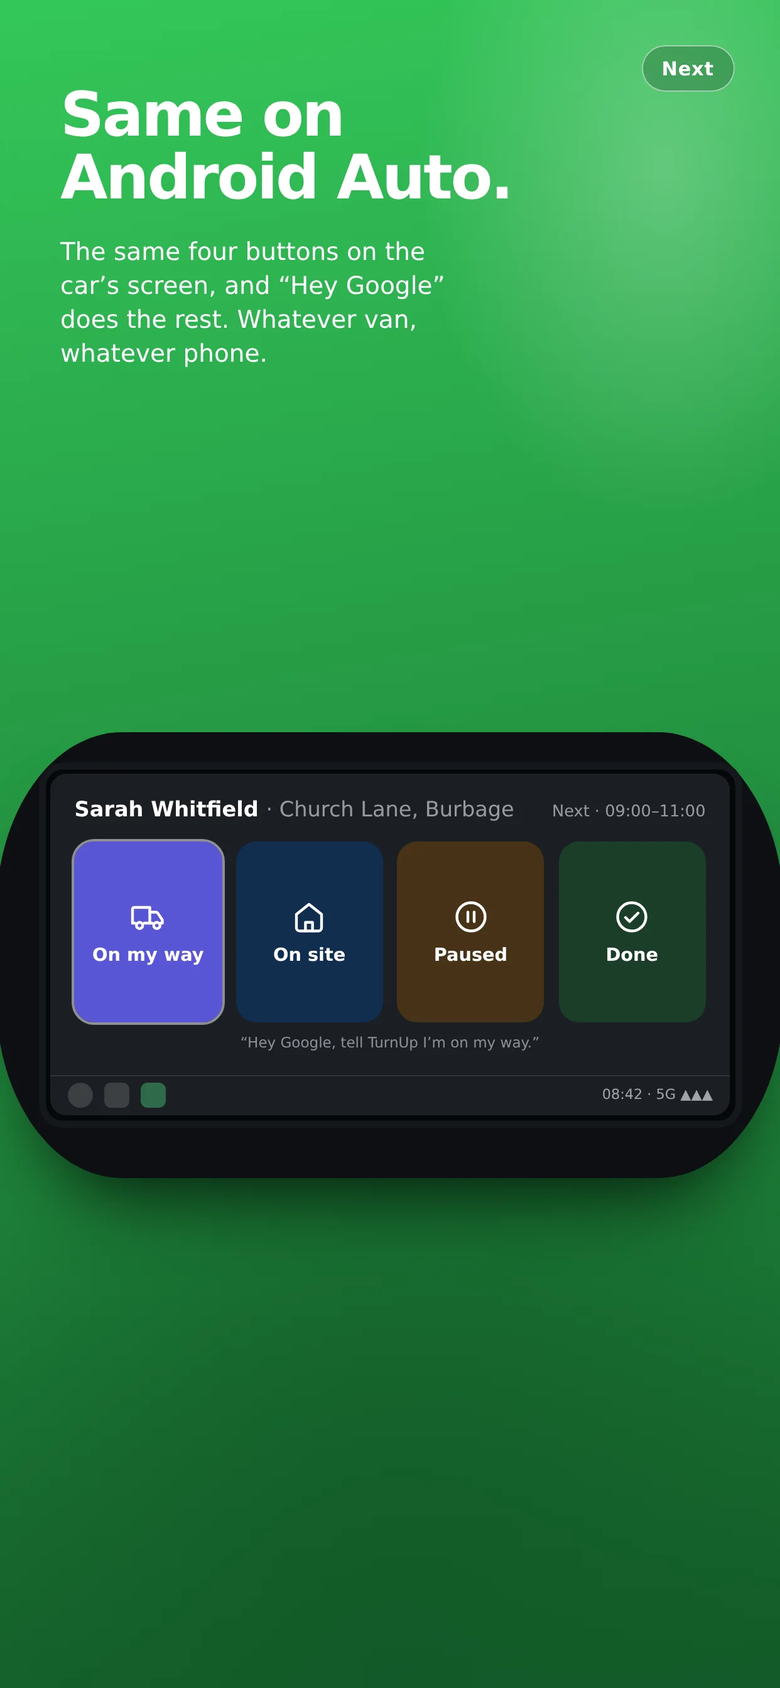
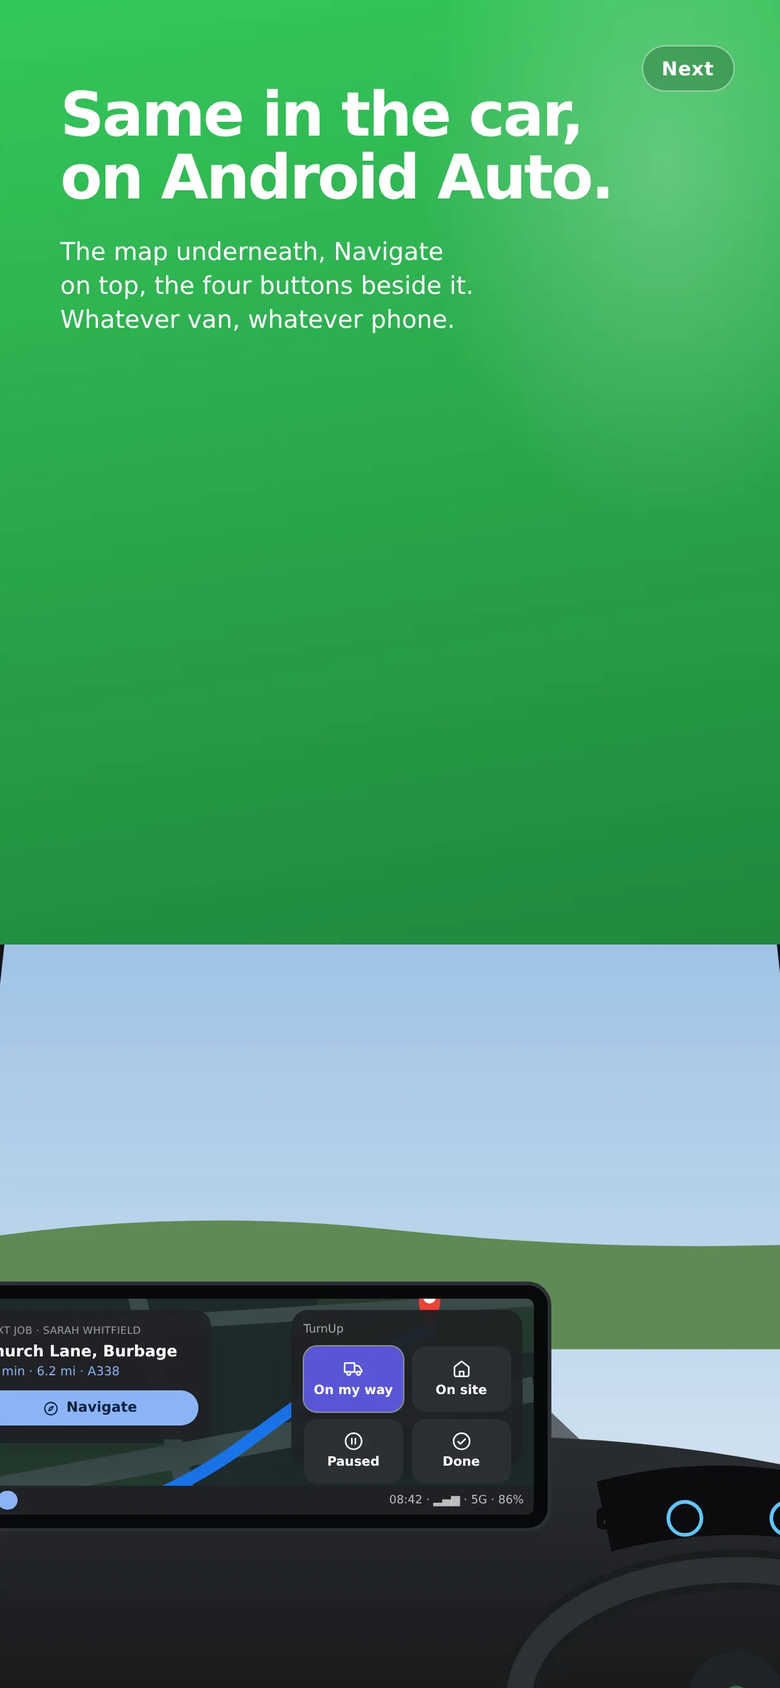
v1.15.2: the cab from the driver's seat; the mark goes home; ServiceM8 is one setting
Will: the CarPlay frames did not look like CarPlay, needed "navigate to
the address", and should show a van dash and a car dash. CarDisplay now
draws the cab — right-hand drive, wheel on the right, the road through the
glass, vents, binnacle — with the head unit as crisp HTML over the SVG.
The van is upright with a tall dash; the car slopes. CarPlay has its
status column, a map card with Navigate, and the stage list; Android Auto
has the map underneath, the navigation card, the TurnUp card and the bar.

The TurnUp mark on the dashboard is a link to the homepage.

ServiceM8 setup is one env var: the webhook secret is derived from
JWT_SECRET when SM8_WEBHOOK_TOKEN is unset, and `npm run build` runs
`prisma db push` so new tables are created by the deploy itself. The panel
gives the Vercel steps with links; the script is a convenience, not a
requirement. CLAUDE.md records what the build now does to the schema and
what it still cannot.

Claude-Session: https://claude.ai/code/session_01KF9r2LXPvcJ1ugbhNoFDpJ

diff --git a/src/components/CarDisplay.jsx b/src/components/CarDisplay.jsx
@@ -1,63 +1,168 @@
-import { VanIcon, HouseIcon, PauseIcon, CheckIcon } from '@/components/icons'
+import { VanIcon, HouseIcon, PauseIcon, CheckIcon, PhoneIcon, CompassIcon } from '@/components/icons'
 
 /**
- * A car's screen, not a phone's. Landscape head unit in a dark dash, drawn
- * two ways: CarPlay (sidebar on the left: time, signal, home) and Android
- * Auto (bar along the bottom). Both show the same four things a driver may
- * press: On my way, On site, Paused, Done — and nothing that needs reading.
+ * A head unit in a dash, seen from the driver's seat (right-hand drive).
+ *
+ * `vehicle` draws the cab: a van sits upright with a flat screen and a tall
+ * dash; a car slopes, with the screen lower and wider. `ui` draws what is on
+ * the screen: CarPlay (black, the status column on the left, list rows) or
+ * Android Auto (Coolwalk: the map underneath, cards floating on it, the bar
+ * along the bottom). Both carry the two things a driver needs: navigate to
+ * the address, and the stage buttons. Nothing to read.
  */
-const JOB = { who: 'Sarah Whitfield', where: 'Church Lane, Burbage', when: '09:00–11:00' }
-const BUTTONS = [
-  { label: 'On my way', bg: '#5856d6', Icon: VanIcon },
+const JOB = { who: 'Sarah Whitfield', where: 'Church Lane, Burbage', mins: 14 }
+const STAGES = [
+  { label: 'On my way', bg: '#5856d6', Icon: VanIcon, on: true },
   { label: 'On site', bg: '#007aff', Icon: HouseIcon },
   { label: 'Paused', bg: '#ff9500', Icon: PauseIcon },
   { label: 'Done', bg: '#34c759', Icon: CheckIcon },
 ]
 
-export default function CarDisplay({ variant = 'carplay', width = 560, className = '' }) {
-  const h = Math.round(width * 0.52)
-  const android = variant === 'android'
+/* A small map: roads on a pale ground, a blue route, a pin. */
+function MapArt({ dark = false, className = '' }) {
+  const ground = dark ? '#1f2a2a' : '#e9ecef', road = dark ? '#3a4a4a' : '#ffffff', green = dark ? '#243a2e' : '#d7ead9'
   return (
-    <div className={`relative shrink-0 ${className}`} style={{ width, height: h, fontSize: width / 560 * 16 }}>
-      {/* the dash it sits in */}
-      <div aria-hidden="true" className="absolute -inset-x-[6%] -bottom-[14%] -top-[8%] rounded-[16%/40%] bg-[#0d0f12]" style={{ boxShadow: '0 40px 60px -30px rgba(0,0,0,.8)' }} />
-      {/* bezel */}
-      <div className="absolute inset-0 rounded-[1.2em] bg-[#06070a] ring-1 ring-white/10" style={{ boxShadow: 'inset 0 0 0 0.35em #15181d' }} />
-      {/* screen */}
-      <div className={`absolute inset-[0.6em] overflow-hidden rounded-[0.8em] ${android ? 'bg-[#1b1e24]' : 'bg-[#0b0d12]'} text-white`}>
-        <div className={`flex h-full ${android ? 'flex-col' : ''}`}>
-          {!android && (
-            <aside className="flex w-[14%] flex-col items-center justify-between border-r border-white/10 py-[1em] text-[0.7em]">
-              <div className="text-center"><p className="font-semibold">08:42</p><p className="mt-[0.3em] text-white/50">●●●● 5G</p></div>
-              <div className="grid gap-[0.9em] text-white/60"><span className="mx-auto h-[2.4em] w-[2.4em] rounded-[0.7em] bg-white/10" /><span className="mx-auto h-[2.4em] w-[2.4em] rounded-[0.7em] bg-white/10" /><span className="mx-auto h-[2.4em] w-[2.4em] rounded-[0.7em] bg-[#2e6b4b]" /></div>
-              <span className="mx-auto h-[2em] w-[2em] rounded-full border border-white/40" />
-            </aside>
-          )}
-          <main className="flex min-w-0 flex-1 flex-col px-[1.2em] py-[1em]">
-            <div className="flex items-baseline justify-between">
-              <p className="truncate text-[1.05em] font-semibold">{JOB.who} <span className="font-normal text-white/55">· {JOB.where}</span></p>
-              <p className="shrink-0 text-[0.8em] text-white/55">Next · {JOB.when}</p>
-            </div>
-            <div className="mt-[0.8em] grid flex-1 grid-cols-4 gap-[0.7em]">
-              {BUTTONS.map(({ label, bg, Icon }, i) => (
-                <div key={label} className="flex flex-col items-center justify-center rounded-[1em] text-center"
-                     style={{ background: i === 0 ? bg : `color-mix(in srgb, ${bg} 22%, #14171d)`, outline: i === 0 ? '0.18em solid rgba(255,255,255,.5)' : 'none' }}>
-                  <Icon size={Math.round(width / 560 * 30)} />
-                  <p className="mt-[0.5em] text-[0.9em] font-bold leading-tight">{label}</p>
-                </div>
-              ))}
-            </div>
-            <p className="mt-[0.7em] text-center text-[0.72em] text-white/50">
-              {android ? '“Hey Google, tell TurnUp I’m on my way.”' : '“Hey Siri, tell TurnUp I’m on my way.”'}
-            </p>
-          </main>
-          {android && (
-            <nav className="flex items-center justify-between border-t border-white/10 px-[1.2em] py-[0.5em] text-[0.7em] text-white/60">
-              <span className="flex items-center gap-[0.8em]"><span className="h-[1.8em] w-[1.8em] rounded-full bg-white/15" /><span className="h-[1.8em] w-[1.8em] rounded-[0.5em] bg-white/15" /><span className="h-[1.8em] w-[1.8em] rounded-[0.5em] bg-[#2e6b4b]" /></span>
-              <span>08:42 · 5G ▲▲▲</span>
-            </nav>
-          )}
+    <svg viewBox="0 0 320 200" className={`block h-full w-full ${className}`} preserveAspectRatio="xMidYMid slice" aria-hidden="true">
+      <rect width="320" height="200" fill={ground} />
+      <rect x="0" y="120" width="130" height="80" fill={green} />
+      <rect x="200" y="0" width="120" height="70" fill={green} />
+      <path d="M0 150 L320 90" stroke={road} strokeWidth="14" />
+      <path d="M90 0 L140 200" stroke={road} strokeWidth="10" />
+      <path d="M0 60 L320 40" stroke={road} strokeWidth="8" />
+      <path d="M20 190 C 80 160, 120 150, 160 120 S 230 70, 262 56" fill="none" stroke="#1a73e8" strokeWidth="7" strokeLinecap="round" />
+      <circle cx="20" cy="190" r="7" fill="#1a73e8" stroke="#fff" strokeWidth="3" />
+      <g transform="translate(262 40)"><path d="M0 16 C -8 6, -8 -6, 0 -10 C 8 -6, 8 6, 0 16 Z" fill="#ea4335" /><circle r="3.5" cy="-1" fill="#fff" /></g>
+    </svg>
+  )
+}
+
+function CarPlayUI({ w }) {
+  const fs = w / 560 * 16
+  return (
+    <div className="flex h-full bg-black text-white" style={{ fontSize: fs }}>
+      <aside className="flex w-[13%] flex-col items-center justify-between py-[0.9em] text-[0.68em]">
+        <div className="text-center leading-tight"><p className="font-semibold text-[1.15em]">08:42</p><p className="mt-[0.2em] text-white/60">▂▄▆█ 5G</p></div>
+        <div className="grid gap-[0.7em]">
+          <span className="grid h-[2.6em] w-[2.6em] place-items-center rounded-[0.75em] bg-[#34c759]"><CompassIcon size={fs * 1.2} /></span>
+          <span className="grid h-[2.6em] w-[2.6em] place-items-center rounded-[0.75em] bg-[#34c759]/30"><PhoneIcon size={fs * 1.1} /></span>
+          <span className="grid h-[2.6em] w-[2.6em] place-items-center rounded-[0.75em] bg-[#2e6b4b]"><span className="h-[1.1em] w-[1.1em] rounded-full border-[0.15em] border-white" /></span>
         </div>
+        <span className="h-[1.6em] w-[1.6em] rounded-full border-[0.14em] border-white/70" />
+      </aside>
+      <main className="flex min-w-0 flex-1 gap-[0.6em] p-[0.6em] pl-0">
+        {/* navigation card */}
+        <section className="relative w-[46%] overflow-hidden rounded-[0.9em]">
+          <MapArt />
+          <div className="absolute inset-x-[0.6em] top-[0.6em] rounded-[0.6em] bg-black/75 px-[0.8em] py-[0.6em] backdrop-blur">
+            <p className="text-[0.62em] uppercase tracking-wide text-white/60">Next job</p>
+            <p className="truncate text-[0.95em] font-semibold">{JOB.where}</p>
+            <p className="text-[0.75em] text-white/70">{JOB.mins} min · 6.2 mi</p>
+          </div>
+          <div className="absolute inset-x-[0.6em] bottom-[0.6em] flex items-center justify-center gap-[0.5em] rounded-[0.6em] bg-[#007aff] py-[0.6em] text-[0.9em] font-bold">
+            <CompassIcon size={fs * 1.1} /> Navigate
+          </div>
+        </section>
+        {/* stage list */}
+        <section className="flex min-w-0 flex-1 flex-col rounded-[0.9em] bg-[#1c1c1e]">
+          <header className="flex items-center justify-between px-[0.9em] py-[0.55em] text-[0.72em] text-white/60"><span>TurnUp</span><span className="truncate pl-[0.5em]">{JOB.who}</span></header>
+          <ul className="flex flex-1 flex-col divide-y divide-white/10 border-t border-white/10">
+            {STAGES.map(({ label, bg, Icon, on }) => (
+              <li key={label} className={`flex flex-1 items-center gap-[0.8em] px-[0.9em] ${on ? 'bg-white/[.08]' : ''}`}>
+                <span className="grid h-[2.1em] w-[2.1em] shrink-0 place-items-center rounded-[0.55em]" style={{ background: bg }}><Icon size={fs * 1.1} /></span>
+                <span className={`flex-1 text-[1em] ${on ? 'font-bold' : 'font-medium text-white/85'}`}>{label}</span>
+                {on ? <CheckIcon size={fs * 1.05} className="text-[#34c759]" /> : <span className="text-white/35">›</span>}
+              </li>
+            ))}
+          </ul>
+        </section>
+      </main>
+    </div>
+  )
+}
+
+function AndroidAutoUI({ w }) {
+  const fs = w / 560 * 16
+  return (
+    <div className="relative h-full overflow-hidden bg-[#1b1f1f] text-white" style={{ fontSize: fs }}>
+      <MapArt dark className="absolute inset-0" />
+      {/* navigation card, top left */}
+      <div className="absolute left-[0.7em] top-[0.7em] w-[42%] rounded-[1em] bg-[#202124]/95 p-[0.8em] shadow-xl">
+        <p className="text-[0.62em] uppercase tracking-wide text-white/55">Next job · {JOB.who}</p>
+        <p className="mt-[0.15em] truncate text-[0.95em] font-semibold">{JOB.where}</p>
+        <p className="text-[0.75em] text-[#8ab4f8]">{JOB.mins} min · 6.2 mi · A338</p>
+        <div className="mt-[0.6em] flex items-center justify-center gap-[0.5em] rounded-full bg-[#8ab4f8] py-[0.5em] text-[0.85em] font-bold text-[#0b1f3a]"><CompassIcon size={fs} /> Navigate</div>
+      </div>
+      {/* TurnUp card, right */}
+      <div className="absolute bottom-[3.1em] right-[0.7em] top-[0.7em] w-[40%] rounded-[1em] bg-[#202124]/95 p-[0.7em] shadow-xl">
+        <p className="text-[0.7em] text-white/60">TurnUp</p>
+        <div className="mt-[0.5em] grid grid-cols-2 gap-[0.5em]">
+          {STAGES.map(({ label, bg, Icon, on }) => (
+            <div key={label} className="flex flex-col items-center justify-center rounded-[0.8em] py-[0.7em] text-center" style={{ background: on ? bg : '#2b2f33', outline: on ? '0.15em solid rgba(255,255,255,.5)' : 'none' }}>
+              <Icon size={fs * 1.3} /><p className="mt-[0.3em] text-[0.78em] font-semibold leading-tight">{label}</p>
+            </div>
+          ))}
+        </div>
+      </div>
+      {/* bottom bar */}
+      <nav className="absolute inset-x-0 bottom-0 flex h-[2.6em] items-center justify-between bg-[#202124] px-[0.9em] text-[0.7em] text-white/70">
+        <span className="flex items-center gap-[0.9em]"><span className="grid h-[1.7em] w-[1.7em] grid-cols-2 gap-[0.15em]"><i className="rounded-sm bg-white/70" /><i className="rounded-sm bg-white/70" /><i className="rounded-sm bg-white/70" /><i className="rounded-sm bg-white/70" /></span><span className="h-[1.7em] w-[1.7em] rounded-full bg-[#8ab4f8]" /></span>
+        <span>08:42 · ▂▄▆ · 5G · 86%</span>
+      </nav>
+    </div>
+  )
+}
+
+/**
+ * The cab. Right-hand drive: wheel on the right, head unit centre-left of
+ * the driver, the road ahead through the glass. The screen is an HTML box
+ * positioned over the SVG so the UI stays crisp text, not a picture of text.
+ */
+export default function CarDisplay({ vehicle = 'van', ui = 'carplay', width = 560, className = '' }) {
+  const van = vehicle === 'van'
+  const H = Math.round(width * 0.78)
+  // screen box, as fractions of the scene
+  const scr = van ? { l: 0.10, t: 0.37, w: 0.52, h: 0.30 } : { l: 0.08, t: 0.44, w: 0.56, h: 0.27 }
+  const sw = width * scr.w
+  return (
+    <div className={`relative shrink-0 ${className}`} style={{ width, height: H }}>
+      <svg viewBox="0 0 560 437" className="absolute inset-0 h-full w-full" aria-hidden="true">
+        <defs>
+          <linearGradient id="sky" x1="0" y1="0" x2="0" y2="1"><stop offset="0" stopColor="#9fc3e6" /><stop offset="1" stopColor="#e9f0f5" /></linearGradient>
+          <linearGradient id="dash" x1="0" y1="0" x2="0" y2="1"><stop offset="0" stopColor="#2a2d31" /><stop offset="1" stopColor="#141618" /></linearGradient>
+          <linearGradient id="road" x1="0" y1="0" x2="0" y2="1"><stop offset="0" stopColor="#6b7078" /><stop offset="1" stopColor="#3f434a" /></linearGradient>
+        </defs>
+        {/* windscreen: sky, hedges, road */}
+        <rect width="560" height="437" fill="url(#sky)" />
+        <path d={van ? 'M0 150 Q 140 120 280 135 T 560 140 V 200 H 0 Z' : 'M0 170 Q 140 140 280 155 T 560 160 V 220 H 0 Z'} fill="#5f8a55" />
+        <path d="M250 200 L310 200 L560 437 L0 437 Z" fill="url(#road)" />
+        <path d="M280 200 L280 437" stroke="#e8e2c8" strokeWidth="4" strokeDasharray="14 22" />
+        {/* A-pillars and glass edge */}
+        <path d="M0 0 L70 0 L22 437 L0 437 Z" fill="#111317" />
+        <path d="M560 0 L490 0 L538 437 L560 437 Z" fill="#111317" />
+        {/* dash */}
+        <path d={van
+          ? 'M0 437 V 250 Q 90 225 200 232 Q 330 225 560 262 V 437 Z'
+          : 'M0 437 V 300 Q 120 262 280 268 Q 440 262 560 300 V 437 Z'} fill="url(#dash)" />
+        {van && <rect x="0" y="250" width="560" height="6" fill="#0d0f11" opacity=".6" />}
+        {/* vents */}
+        {[0.03, 0.70].map((x, i) => (
+          <g key={i} transform={`translate(${x * 560} ${van ? 268 : 306})`}><rect width="34" height="12" rx="3" fill="#0b0c0e" /><rect x="4" y="3" width="26" height="2" fill="#3a3f45" /><rect x="4" y="7" width="26" height="2" fill="#3a3f45" /></g>
+        ))}
+        {/* instrument binnacle, right */}
+        <path d={van ? 'M392 258 Q 468 236 544 262 L 536 300 Q 468 282 400 300 Z' : 'M392 292 Q 468 272 544 298 L 536 330 Q 468 312 400 330 Z'} fill="#0b0c0e" />
+        <circle cx="440" cy={van ? 280 : 312} r="9" fill="none" stroke="#5ec6ff" strokeWidth="2" /><circle cx="496" cy={van ? 280 : 312} r="9" fill="none" stroke="#5ec6ff" strokeWidth="2" />
+        {/* steering wheel, right-hand drive */}
+        <g transform={van ? 'translate(468 392)' : 'translate(468 410)'}>
+          <ellipse rx="118" ry={van ? 86 : 70} fill="none" stroke="#1a1c1f" strokeWidth="22" />
+          <ellipse rx="118" ry={van ? 86 : 70} fill="none" stroke="#2c3034" strokeWidth="14" />
+          <path d={van ? 'M-104 20 L-28 8 M104 20 L28 8 M0 84 L0 16' : 'M-104 16 L-28 6 M104 16 L28 6 M0 68 L0 14'} stroke="#2c3034" strokeWidth="18" strokeLinecap="round" />
+          <circle r="26" fill="#202327" /><circle r="7" fill="#2e6b4b" />
+        </g>
+        {/* head unit bezel */}
+        <rect x={scr.l * 560 - 8} y={scr.t * 437 - 8} width={scr.w * 560 + 16} height={scr.h * 437 + 16} rx="12" fill="#07080a" stroke="#2b2f34" strokeWidth="2" />
+      </svg>
+      <div className="absolute overflow-hidden rounded-[6px] bg-black" style={{ left: scr.l * width, top: scr.t * H, width: sw, height: scr.h * H }}>
+        {ui === 'android' ? <AndroidAutoUI w={sw} /> : <CarPlayUI w={sw} />}
       </div>
     </div>
   )

diff --git a/src/app/dashboard/ServiceM8.jsx b/src/app/dashboard/ServiceM8.jsx
@@ -67,10 +67,14 @@ export default function ServiceM8({ onChanged }) {
         <div className="px-6 pb-6">
           {!s.configured ? (
             <div className="r-inner px-4 py-3.5 text-[14px]" style={{ background: 'color-mix(in srgb, var(--stage-paused) 13%, transparent)' }}>
-              <p className="font-semibold">Connect it in one go.</p>
-              <p className="mt-1">In ServiceM8: Settings → API Keys → create one. Then on your Mac, in the repo:</p>
-              <pre className="mt-2 overflow-x-auto rounded-xl bg-black/80 px-3 py-2 font-mono text-[12px] text-white">bash scripts/connect-servicem8.sh</pre>
-              <p className="mt-2 muted">It stores the key and a webhook secret in Vercel, creates the two tables, redeploys, and comes back here to switch on listening. Until then this panel does nothing and nothing else is affected.</p>
+              <p className="font-semibold">Connect it: one setting in Vercel.</p>
+              <ol className="mt-2 list-decimal space-y-1.5 pl-5">
+                <li>In ServiceM8: <b>Settings → API Keys → Create</b>. Copy the key.</li>
+                <li>Open <a className="underline" href="https://vercel.com/willgazes-projects/turnup/settings/environment-variables" target="_blank" rel="noreferrer">Vercel → turnup → Environment Variables</a>. Press <b>Add</b>: Key <code className="font-mono">SM8_API_KEY</code>, Value the key, Environment <b>Production</b>. Save.</li>
+                <li>Open <a className="underline" href="https://vercel.com/willgazes-projects/turnup/deployments" target="_blank" rel="noreferrer">Deployments</a> → <b>⋯</b> on the top one → <b>Redeploy</b>. About a minute.</li>
+                <li>Come back here and press <b>Start listening</b>.</li>
+              </ol>
+              <p className="mt-2 muted">That is all. The webhook secret is derived, and the tables are created on deploy. Until the key is in, this panel does nothing and nothing else is affected.</p>
             </div>
           ) : (
             <>

diff --git a/src/lib/posters.js b/src/lib/posters.js
@@ -102,11 +102,11 @@ export const FRAMES = [
     'Finished,\nphotographed,\nreviewed.', 'Photos of the work when it is done, and the review asked for at the right moment.',
     { mock: 'photos', alt: 'Job-done photos and a review request' }),
   f('n-carplay', 'next', 'next', NAVY,
-    'From the dash,\nnot the phone.', 'On my way, On site, Paused, Done as four big buttons on CarPlay, or just say it to Siri. Eyes on the road.',
-    { car: 'carplay', alt: 'A CarPlay screen in a car dash with four big buttons: On my way, On site, Paused, Done' }),
+    'From the dash,\nnot the phone.', 'Navigate to the address, then On my way, On site, Paused, Done — on CarPlay, in the van. Or say it to Siri.',
+    { car: { vehicle: 'van', ui: 'carplay' }, alt: 'A van dashboard with CarPlay on the head unit: a map with Navigate, and the four stage buttons' }),
   f('n-androidauto', 'next', 'next', GREEN,
-    'Same on\nAndroid Auto.', 'The same four buttons on the car’s screen, and “Hey Google” does the rest. Whatever van, whatever phone.',
-    { car: 'android', alt: 'An Android Auto screen in a car dash with four big buttons' }),
+    'Same in the car,\non Android Auto.', 'The map underneath, Navigate on top, the four buttons beside it. Whatever van, whatever phone.',
+    { car: { vehicle: 'car', ui: 'android' }, alt: 'A car dashboard with Android Auto: the map, Navigate, and the four stage buttons' }),
   f('n-record', 'next', 'next', NAVY,
     'A record of\nyour home.', 'Everything done to the house, by whom, when, with the certificate and the photos. Kept with the address, not lost in an inbox.',
     { mock: 'record', alt: 'A house record: the work done, by whom, when, with certificates' }),

diff --git a/src/lib/servicem8.js b/src/lib/servicem8.js
@@ -24,6 +24,7 @@
 import { prisma } from './prisma'
 import { notifyStage } from './push'
 import { cleanText } from './clean-text'
+import { createHmac } from 'node:crypto'
 
 // SM8_API_BASE exists so a test can stand a fake ServiceM8 up on localhost.
 // Production never sets it.
@@ -38,7 +39,15 @@ const TIMEOUT_MS = 6_000     // ServiceM8 wants a 2xx inside 10s; leave room
 const AWAY_NOTE = 'Away from site for now — back to finish.'
 
 export const sm8Configured = () => Boolean(process.env.SM8_API_KEY)
-export const webhookToken = () => process.env.SM8_WEBHOOK_TOKEN || null
+// The webhook URL's secret. Set SM8_WEBHOOK_TOKEN if you want to choose it;
+// otherwise it is derived from JWT_SECRET, so connecting ServiceM8 needs one
+// env var, not two. Changing JWT_SECRET therefore changes the URL — press
+// Start listening again after.
+export const webhookToken = () => {
+  if (process.env.SM8_WEBHOOK_TOKEN) return process.env.SM8_WEBHOOK_TOKEN
+  if (!process.env.JWT_SECRET) return null
+  return createHmac('sha256', process.env.JWT_SECRET).update('sm8-webhook').digest('hex').slice(0, 40)
+}
 
 const UUID = /^[0-9a-f-]{32,36}$/i
 const isNull = (d) => !d || String(d).startsWith('0000-00-00')

diff --git a/src/lib/version.js b/src/lib/version.js
@@ -16,7 +16,7 @@
  *
  * Adding one is welcome. Inventing one at runtime is not.
  */
-export const VERSION = '1.15.1'
+export const VERSION = '1.15.2'
 export const BUILD_DATE = '2026-10-09'
 
 export const THEMES = [
@@ -48,6 +48,11 @@ export const theme = () => THEMES[THEME_INDEX % THEMES.length]
  * by the person who asked for it, not by a release manager.
  */
 export const CHANGELOG = [
+  { version: '1.15.2', date: '2026-10-09', notes: [
+    'CarPlay in the van and Android Auto in the car, drawn from the driver\u2019s seat: the map, Navigate to the address, the four stage buttons',
+    'The TurnUp mark on the dashboard goes to the homepage, and the homepage\u2019s Sign in comes back',
+    'ServiceM8 needs one setting in Vercel now: the webhook secret is derived and new tables are created on deploy',
+  ] },
   { version: '1.15.1', date: '2026-10-09', notes: [
     'Move my sign-in: the address you are signed in on vouches for you on the new one \u2014 no password, 90 seconds, this browser only',
     'The sign-in page says plainly that Face ID is per address, and points at the move',

diff --git a/src/app/dashboard/Console.jsx b/src/app/dashboard/Console.jsx
@@ -1,6 +1,7 @@
 'use client'
 
 import { useCallback, useEffect, useState } from 'react'
+import Link from 'next/link'
 import { STAGES, stageOf } from '@/lib/trade-status'
 import Passkeys from './Passkeys'
 import Mark from '@/components/Mark'
@@ -195,7 +196,10 @@ export default function Console() {
       <div className="stage-wash" aria-hidden="true" />
       <main className="relative z-10 mx-auto max-w-3xl px-4 pb-16 pt-safe">
       <div className="flex items-center justify-between pt-2">
-        <Mark className="h-7 w-auto" id="dash" />
+        <Link href="/" aria-label="TurnUp home" className="inline-flex min-h-[44px] items-center gap-2 pr-2">
+          <Mark className="h-7 w-auto" id="dash" />
+          <span className="text-[17px] font-bold tracking-[-0.02em]">TurnUp</span>
+        </Link>
         <button onClick={async () => { await fetch('/api/auth/login', { method: 'DELETE' }); location.href = '/login' }}
                 className="inline-flex min-h-[44px] items-center px-2 text-[15px] muted">Sign out</button>
       </div>

diff --git a/src/app/preview/posters/Posters.jsx b/src/app/preview/posters/Posters.jsx
@@ -41,9 +41,9 @@ export function Poster({ p, scale = 1 }) {
         <p className="whitespace-pre-line text-[3.05em] font-bold leading-[1.02] tracking-[-0.035em]">{p.head}</p>
         <p className="mt-[1.1em] max-w-[17em] text-[1.22em] leading-snug text-white/82">{p.sub}</p>
       </div>
-      <div className={`absolute inset-x-0 flex justify-center ${p.wallet ? 'inset-y-0 items-start pt-[17em]' : p.car ? 'inset-y-0 items-center pt-[10em]' : 'bottom-0'}`}>
+      <div className={`absolute inset-x-0 flex justify-center ${p.wallet ? 'inset-y-0 items-start pt-[17em]' : p.car ? 'inset-y-0 items-end overflow-hidden' : 'bottom-0'}`}>
         {p.car ? (
-          <CarDisplay variant={p.car} width={560 * scale} />
+          <CarDisplay vehicle={p.car.vehicle} ui={p.car.ui} width={820 * scale} className="-mb-[3em]" />
         ) : p.wallet ? (
           <div className="w-[36em] scale-[1.18]"><WalletHero tracker={DEMO} tradeName="Sam Hale Plumbing" className="!rounded-[2.4em] !bg-transparent" /></div>
         ) : (

diff --git a/CLAUDE.md b/CLAUDE.md
@@ -447,6 +447,18 @@ So: **columns on an existing table are not shippable until the migration has
 run.** Either run it first, or hold the commit. Do not reason from "the push
 table shipped fine" — that was a new table, which is the other case.
 
+### New tables are created by the build
+
+Since 9 Oct 2026 `npm run build` runs `prisma db push` before `next build` (see
+package.json). An additive change — a new table, a new nullable column — lands
+in the live database as part of the deploy, which is how `Sm8Link` and
+`Sm8Event` got there. A destructive change is refused by `db push` without
+`--accept-data-loss`, the step is allowed to fail (`|| true`), and the build
+carries on; so a destructive change still needs a human and still needs the
+check below. The v1.9.0 rule stands: a NEW COLUMN that code reads is only safe
+because the build now creates it first — if the push step ever fails, every
+link is down. Read the build log.
+
 ### The check after any deploy that touches the schema
 
 One curl, and it is not optional:
